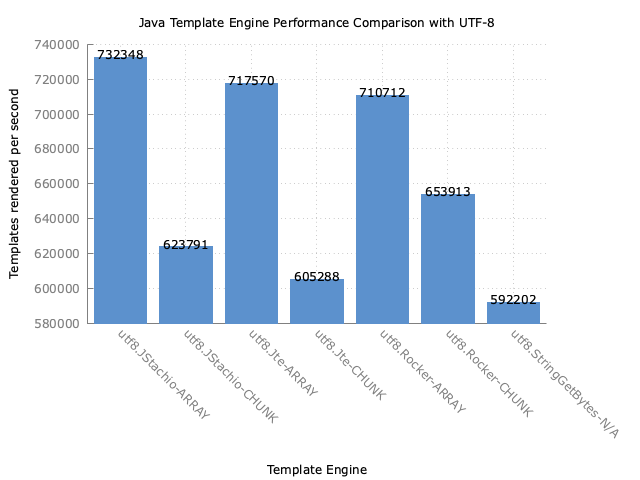
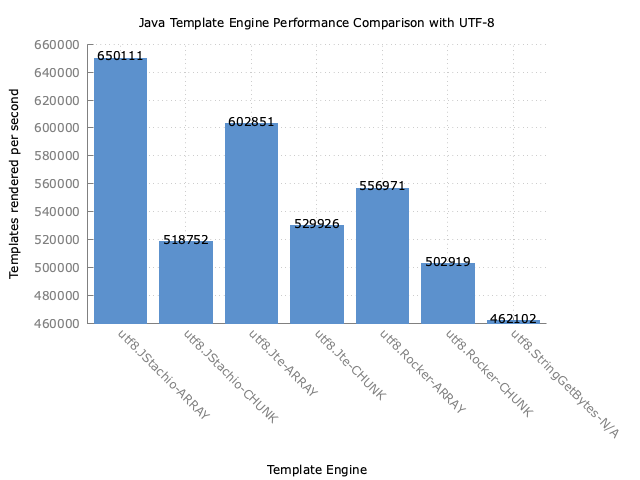
JStachio benchmark create output twice!

diff --git a/src/main/java/com/mitchellbosecke/benchmark/output/OutputKind.java b/src/main/java/com/mitchellbosecke/benchmark/output/OutputKind.java
@@ -14,6 +14,20 @@ public enum OutputKind {
             return new ChunkOutput(512);
         }
     };
+//    POOL() {
+//        private final OutputPool pool = OutputPool.of(16 * 4);
+//        @Override
+//        public Utf8Output create() {
+//            return pool.acquire();
+//        }
+//    },
+//    THREAD_LOCAL() {
+//        private static final ThreadLocal<Utf8Output> threadLocal = ThreadLocal.withInitial(() -> new ByteArrayOutput());
+//        @Override
+//        public Utf8Output create() {
+//            return threadLocal.get();
+//        }
+//    };
 //    DEQUE() {
 //        @Override
 //        public Utf8Output create() {

diff --git a/src/main/java/com/mitchellbosecke/benchmark/utf8/JStachioUtf8.java b/src/main/java/com/mitchellbosecke/benchmark/utf8/JStachioUtf8.java
@@ -38,7 +38,7 @@ public class JStachioUtf8 extends BaseBenchmark {
     @Benchmark
     public byte[] benchmark() throws IOException {
         try (var out = output.create()) {
-            JStachioAdapter adapter = new JStachioAdapter(output.create());
+            JStachioAdapter adapter = new JStachioAdapter(out);
             template.write(model, adapter);
             return adapter.getOutput().toByteArray();
         }
